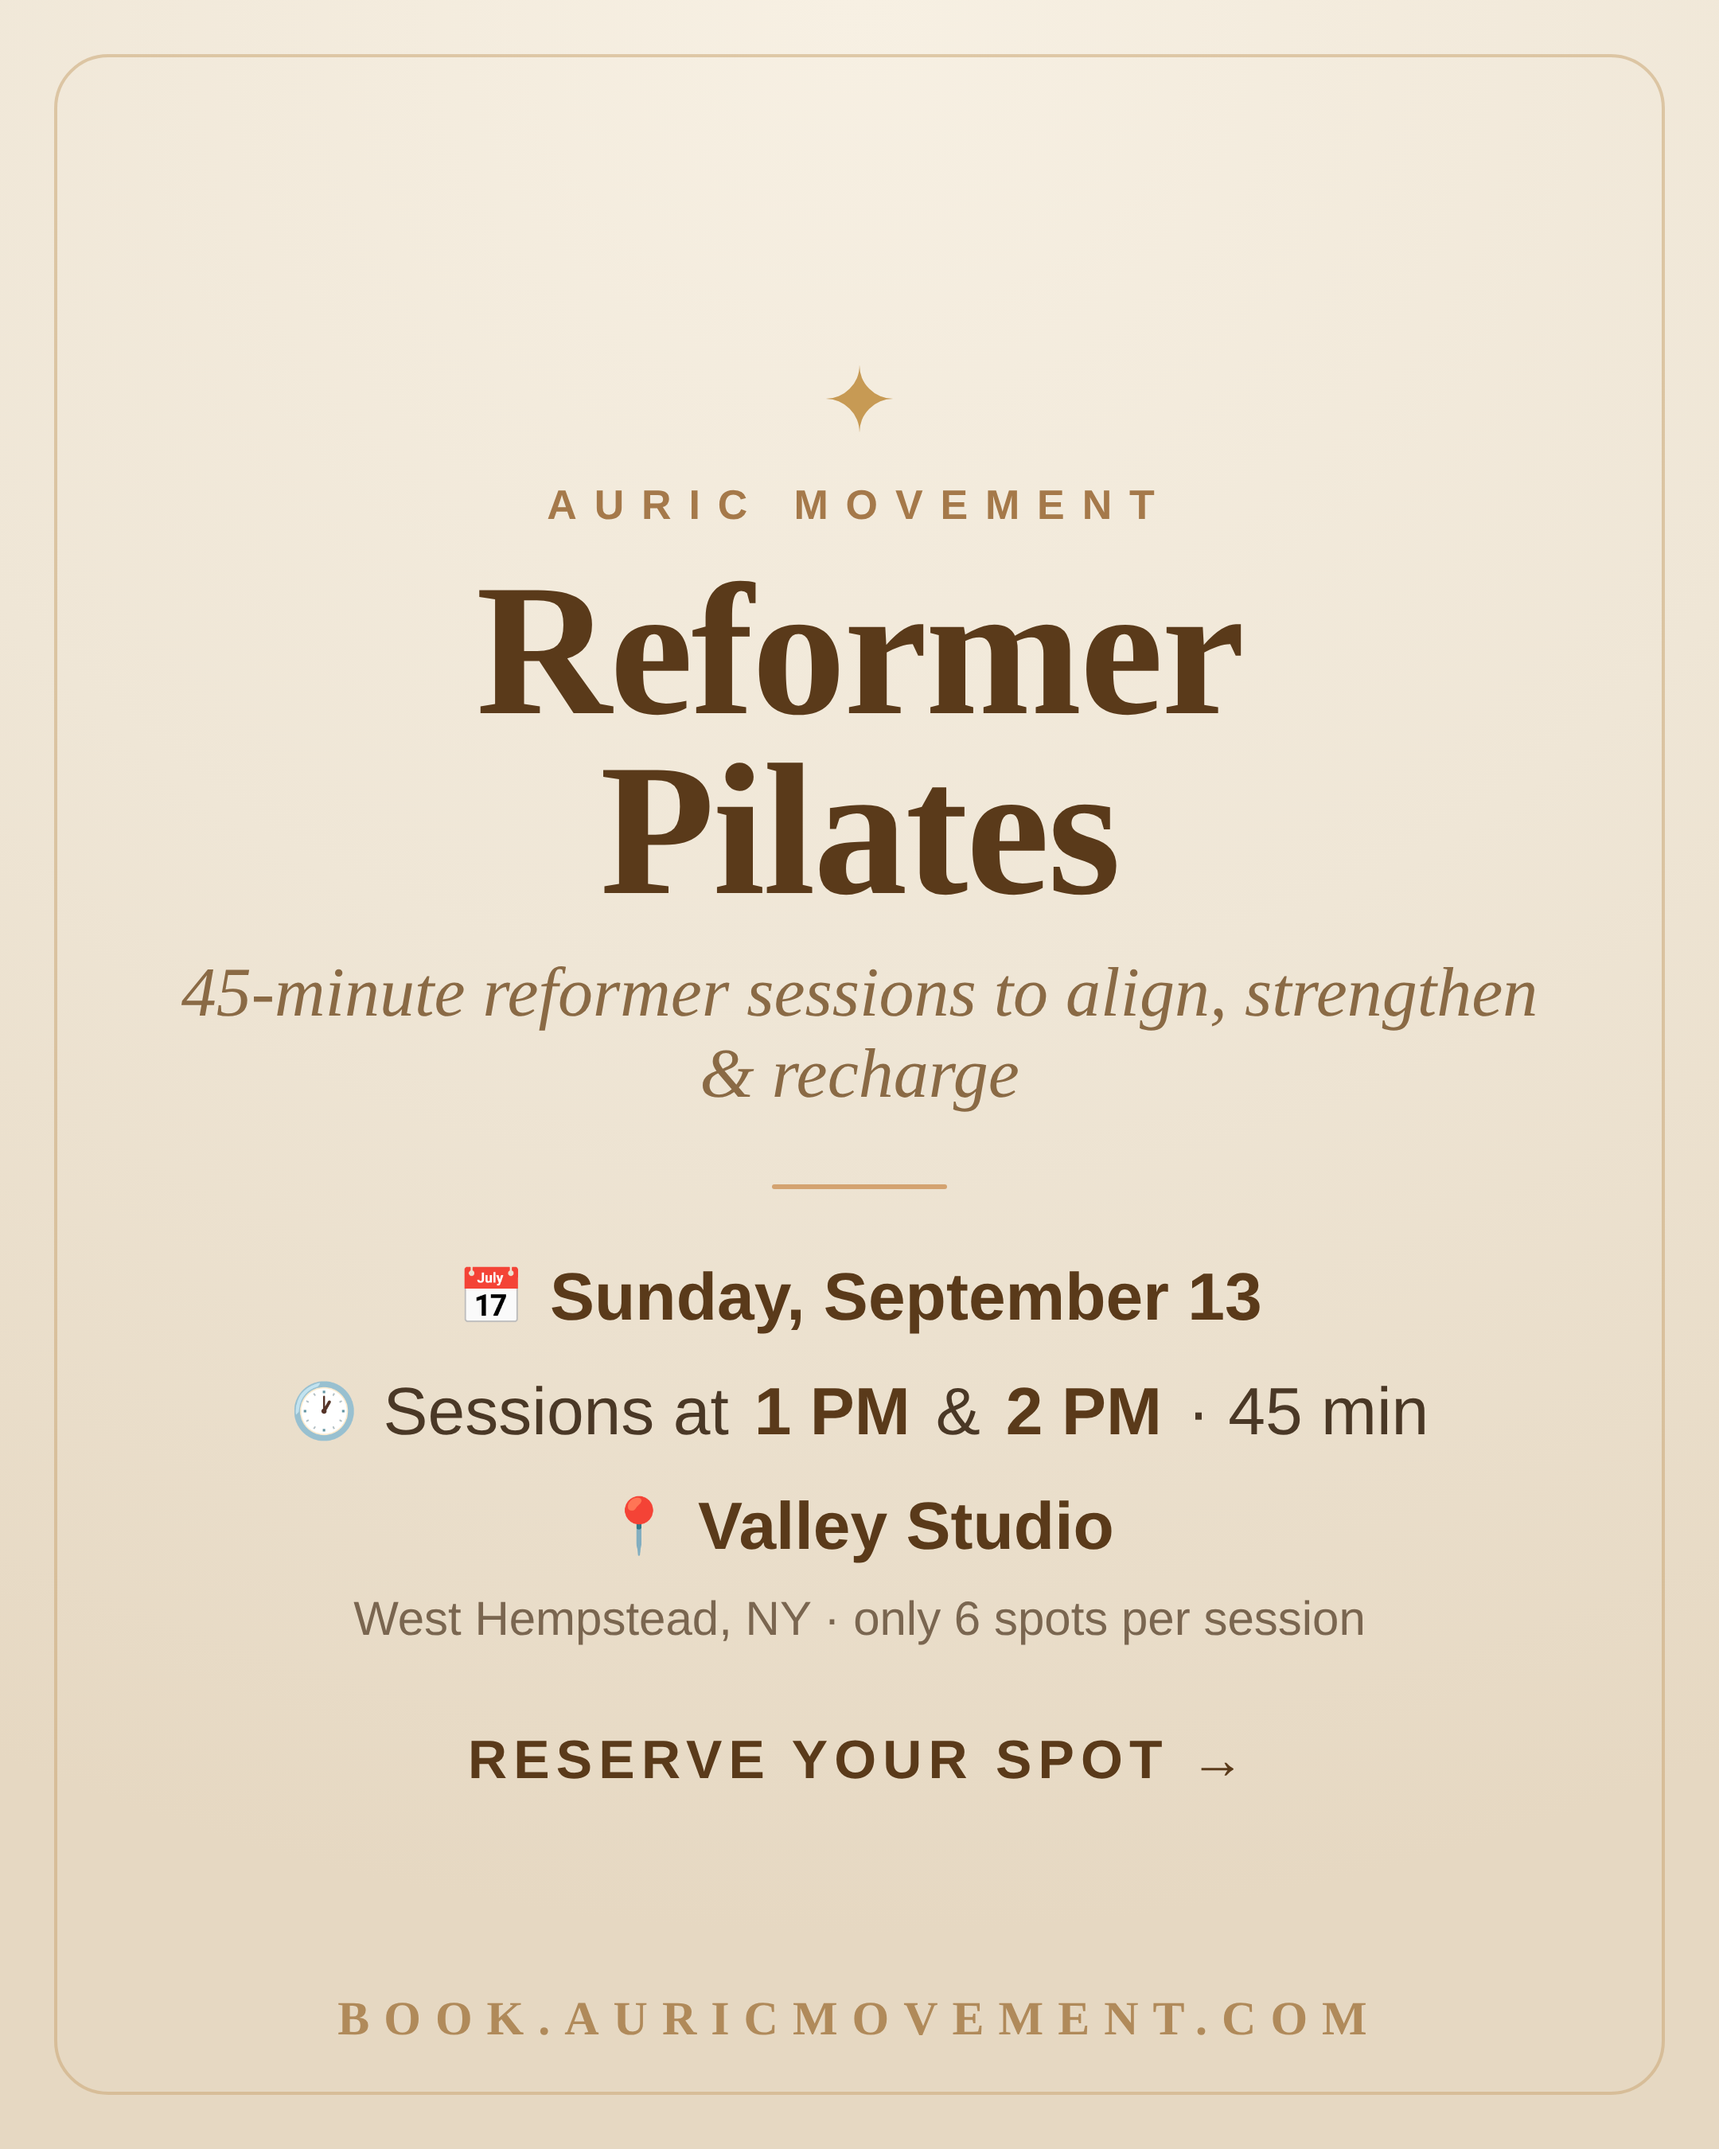
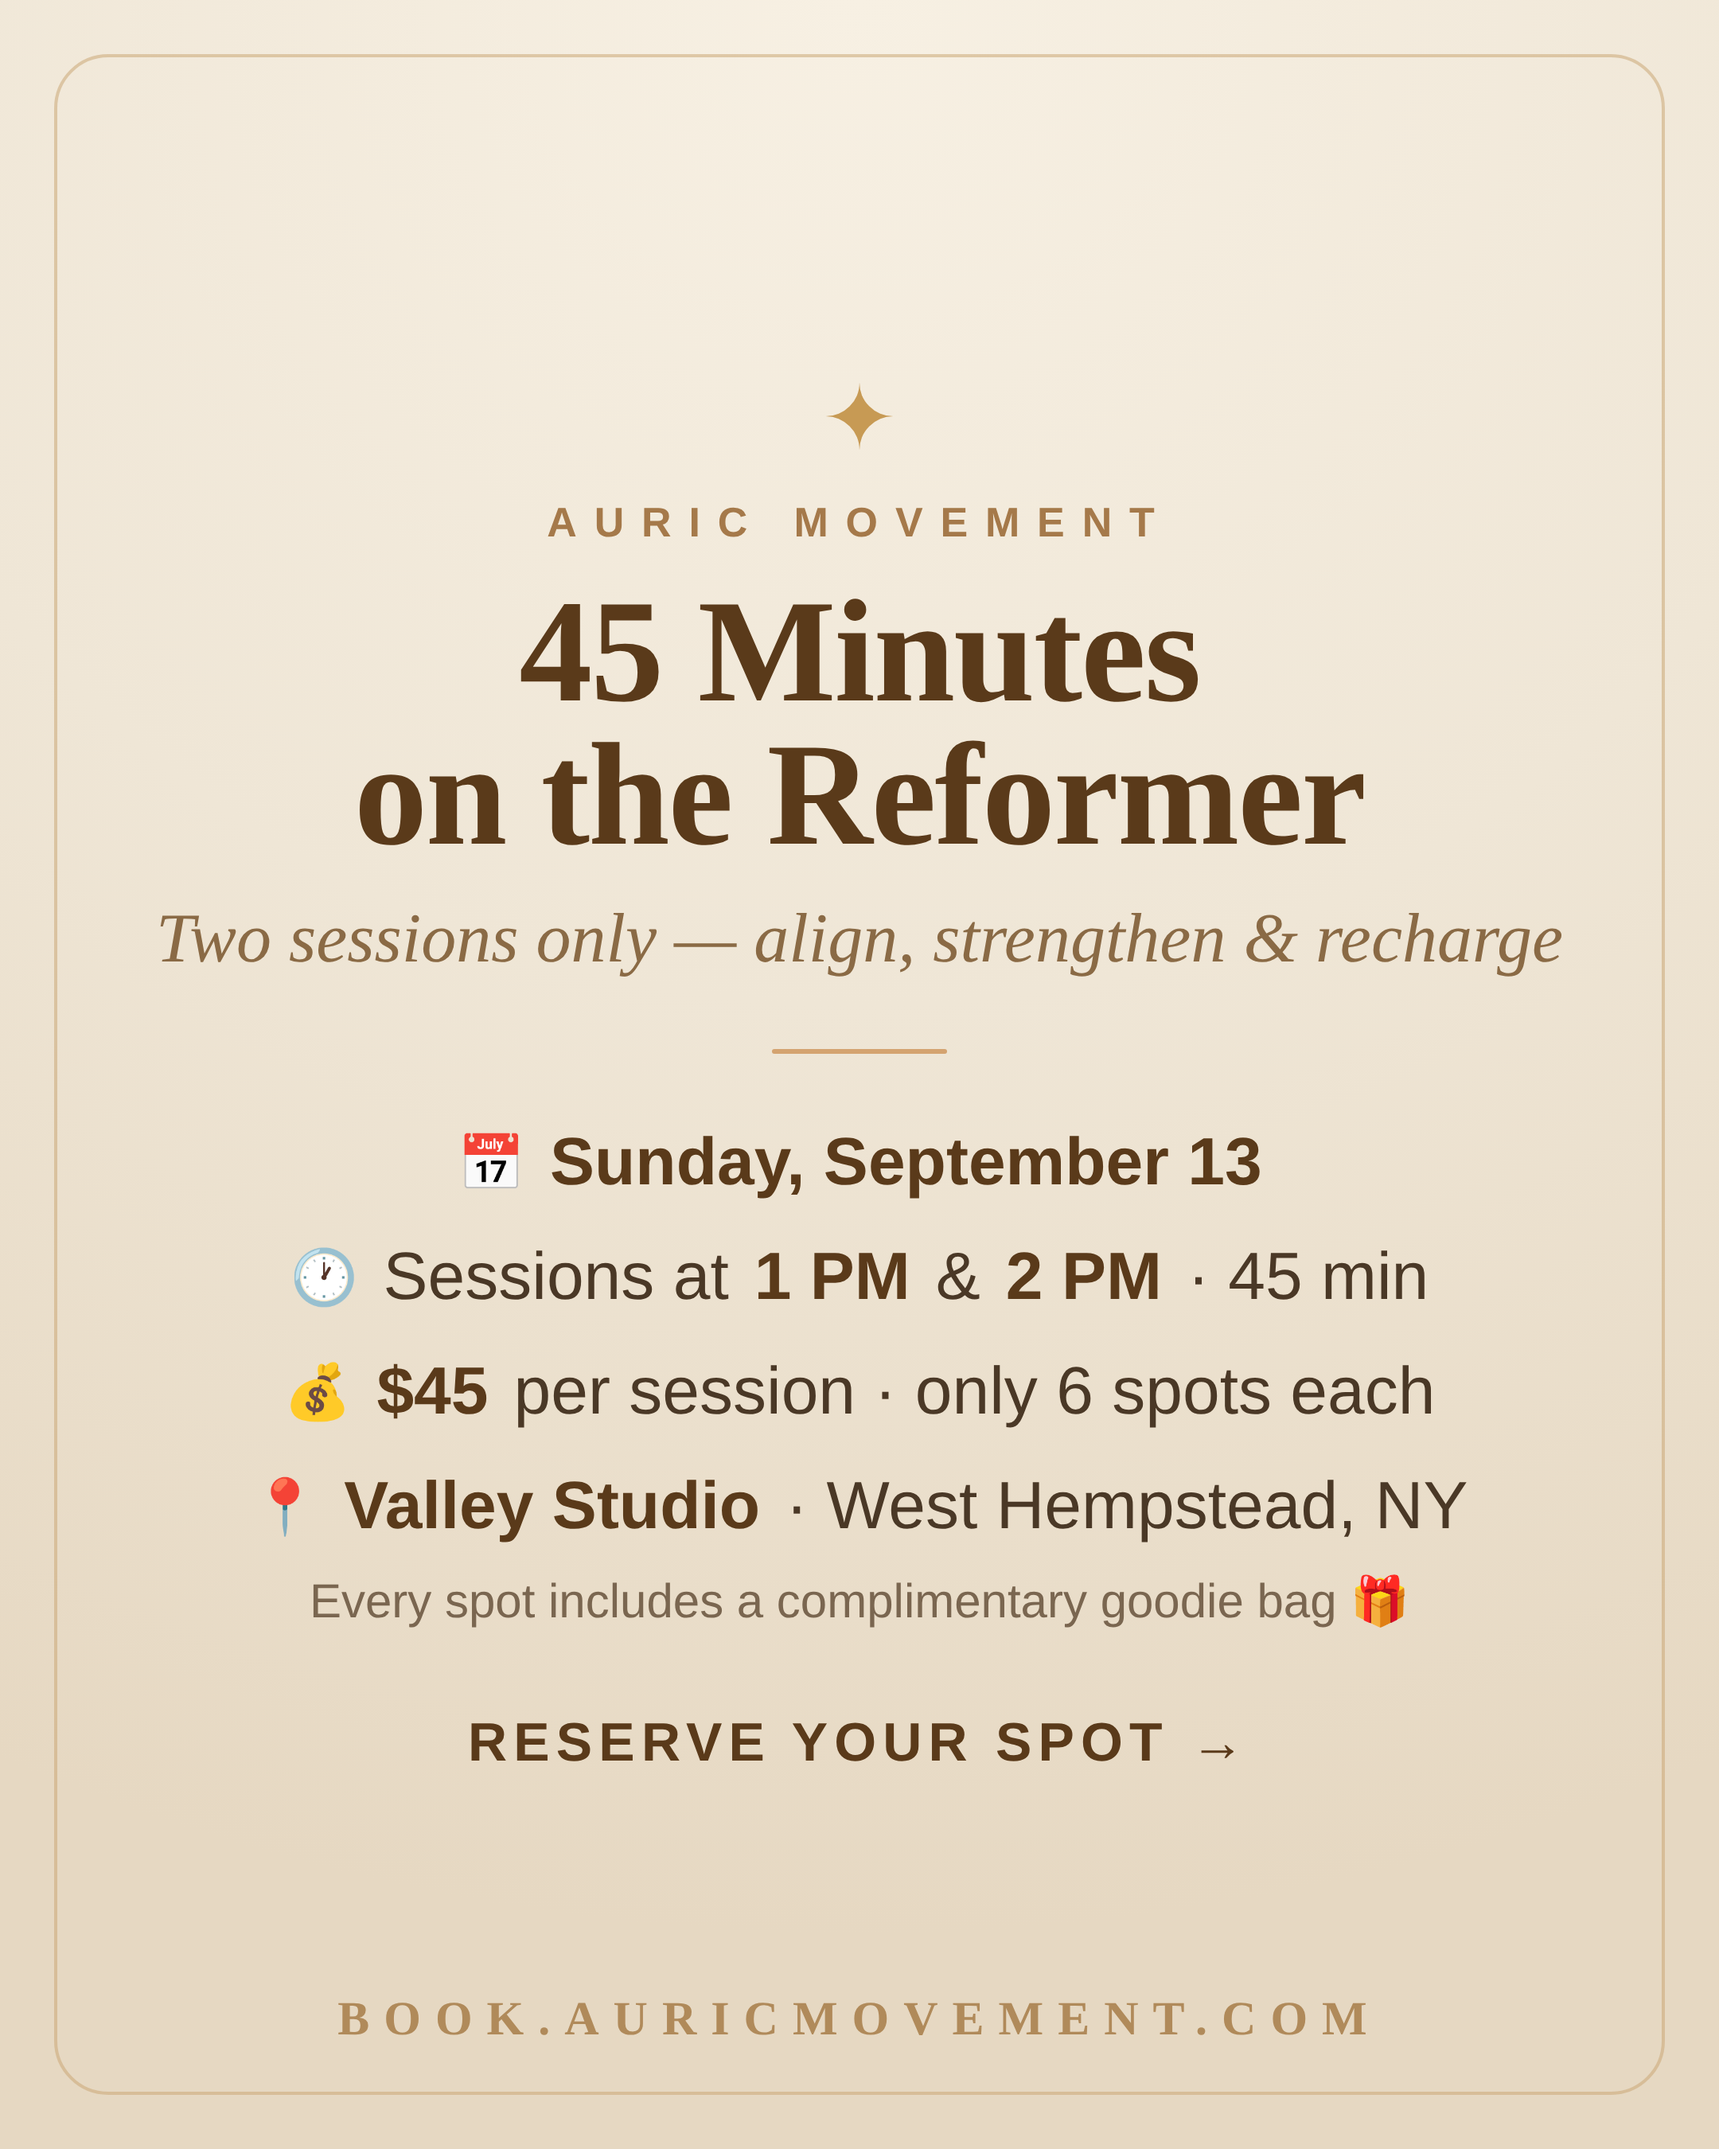
Reflect Reformer flyer details on site: $45 price + complimentary goodie bag (#97)
Update the Reformer Pilates event to match Niara's finished flyer:
- Booking overlay now shows "$45 · 45-minute session · only 6 spots each"
  and "Every spot includes a complimentary goodie bag"
- Event card sub line includes the $45 price
- Regenerated reformer-flyer.png as "45 Minutes on the Reformer" with the
  $45 price and goodie-bag perk; card cache-buster bumped to v=3

Claude-Session: https://claude.ai/code/session_01C5C3S2hPFNYWpceXrqPaqV

Changed region(s): [[0.0931, 0.2178, 0.8995, 0.84], [0.4653, 0.1556, 0.6824, 0.2489]]

diff --git a/index.html b/index.html
@@ -2803,12 +2803,12 @@
       <button type="button" id="event-card-reformer" class="bq-event scroll-reveal" data-event-date="2026-09-13" data-event-name="Reformer Pilates">
         <div class="bq-event-photo">
           <picture>
-            <img src="reformer-flyer.png?v=2" alt="Reformer Pilates &#8212; Sunday, September 13th at Valley Studio, West Hempstead, NY" loading="lazy" decoding="async">
+            <img src="reformer-flyer.png?v=3" alt="45 Minutes on the Reformer &#8212; Sunday, September 13th at Valley Studio, West Hempstead, NY &#183; $45, complimentary goodie bag" loading="lazy" decoding="async">
           </picture>
         </div>
         <div class="bq-event-date">09.13.26 &#183; Reformer Pilates</div>
         <div class="bq-event-name">Reformer <em>Pilates</em></div>
-        <div class="bq-event-sub">Sun &#183; 1 PM &amp; 2 PM (45 min) &#183; Valley Studio, West Hempstead NY</div>
+        <div class="bq-event-sub">Sun &#183; 1 &amp; 2 PM (45 min) &#183; $45 &#183; Valley Studio, West Hempstead NY</div>
         <span class="bq-event-link">Reserve <span aria-hidden="true">&#8594;</span></span>
       </button>
 
@@ -4608,7 +4608,8 @@ Can't wait to move and connect with you!</textarea>
     <div style="font-family:Georgia,serif;font-size:10px;letter-spacing:3px;text-transform:uppercase;color:#9a6535;font-weight:bold;">Auric Movement</div>
     <h2 style="font-family:'Cormorant Garamond',serif;font-style:italic;font-size:1.7rem;color:var(--brown);margin:.4rem 0 .25rem;font-weight:500;">Reformer Pilates</h2>
     <p style="font-size:.9rem;color:#3d322a;margin:0 0 .25rem;line-height:1.5;">Sunday, September 13 &middot; Valley Studio, West Hempstead</p>
-    <p style="font-size:.8rem;color:var(--text-muted);margin:0 0 1.25rem;line-height:1.5;">45-minute sessions &middot; only <strong>6 spots</strong> each &mdash; pick your time:</p>
+    <p style="font-size:.9rem;color:#3d322a;margin:0 0 .35rem;line-height:1.5;"><strong>$45</strong> &middot; 45-minute session &middot; only <strong>6 spots</strong> each</p>
+    <p style="font-size:.8rem;color:var(--text-muted);margin:0 0 1.25rem;line-height:1.5;">Every spot includes a complimentary goodie bag &#127873; &mdash; pick your time:</p>
     <div style="border:1px solid var(--border);border-radius:12px;padding:1rem 1rem 1.1rem;margin-bottom:1rem;background:#faf5ee;">
       <div style="font-weight:600;color:var(--brown);font-size:.95rem;margin-bottom:.6rem;">&#128336; 1:00 PM &mdash; 1:45 PM</div>
       <stripe-buy-button buy-button-id="buy_btn_1U0qlXCyx5PIptEipZUAdX6Z" publishable-key="pk_live_51TSmNuCyx5PIptEi8SCgMFB3I7ECVFeAzDOwjj1ZLrVZX1scB6cH8wAjNor3SFilMwMuqo0aFsbsckjYLU33iSAp00tmUxBVlK"></stripe-buy-button>
